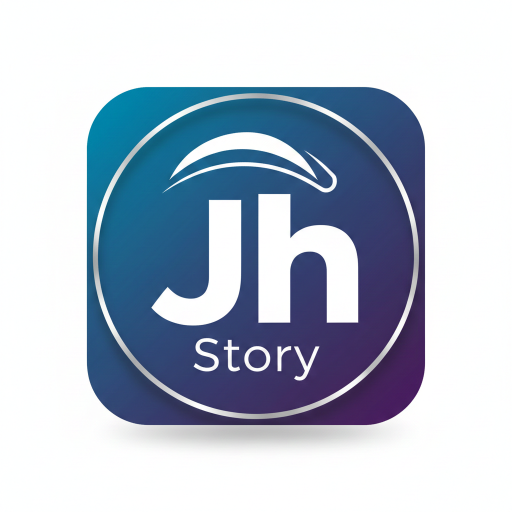
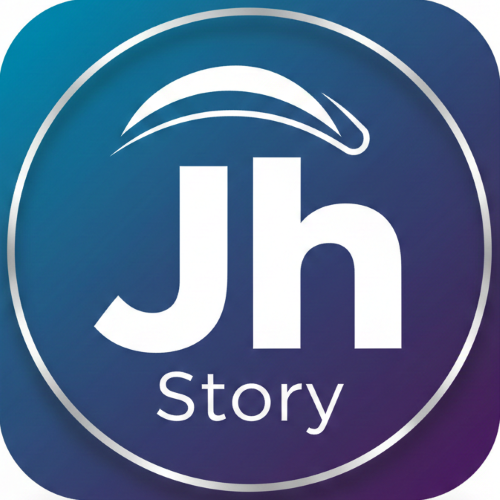
release app

diff --git a/service-worker-assets.js b/service-worker-assets.js
@@ -1,5 +1,5 @@
 self.assetsManifest = {
-  "version": "LZcGhsO4",
+  "version": "nB1O3rj9",
   "assets": [
     {
       "hash": "sha256-sOpaKFwCbciAxhNFQHbaBz7IiMjbf/esX1yk+uczQtE=",
@@ -302,15 +302,15 @@ self.assetsManifest = {
       "url": "favicon.png"
     },
     {
-      "hash": "sha256-+xQ/e+W5VOKsdqNRkm/hkUi1A3g26hkLPRMw88NmzMA=",
+      "hash": "sha256-1kAxS4dA8Rmi694WLdCtSApaJU/AX+YKkXf3s0q/RlQ=",
       "url": "icon-192.png"
     },
     {
-      "hash": "sha256-zP/4gafHpAI9njSnOIGA1iT/c0pwhFvSq/A3qVMvO0I=",
+      "hash": "sha256-OpStljvyQafbfR7bfuV0gJxUxK4ahZypLbFSxugdZTw=",
       "url": "icon-512.png"
     },
     {
-      "hash": "sha256-ycczwmI3FTfApOSAsI3QsOn59hZZS9R8MlGwTjt9IYc=",
+      "hash": "sha256-a+PeuYtg2j+sZ6fv/mLcn3cRScv4YzumKAbEB0EPPMQ=",
       "url": "icon.png"
     },
     {

diff --git a/service-worker.js b/service-worker.js
@@ -1,4 +1,4 @@
-/* Manifest version: LZcGhsO4 */
+/* Manifest version: nB1O3rj9 */
 // Caution! Be sure you understand the caveats before publishing an application with
 // offline support. See https://aka.ms/blazor-offline-considerations
 
